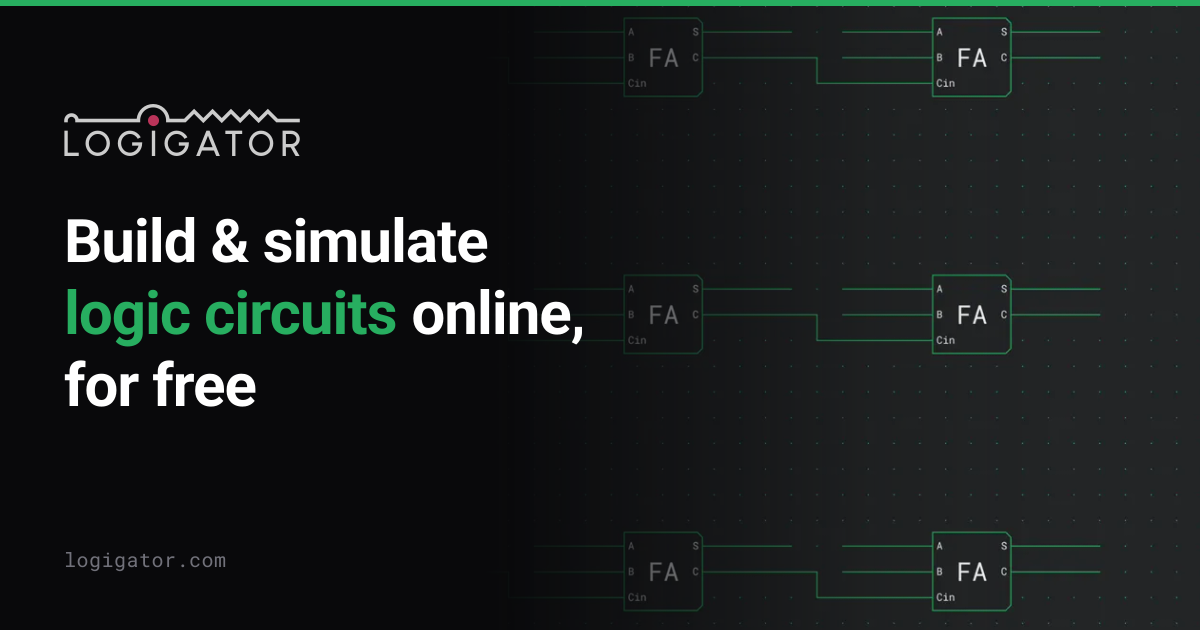
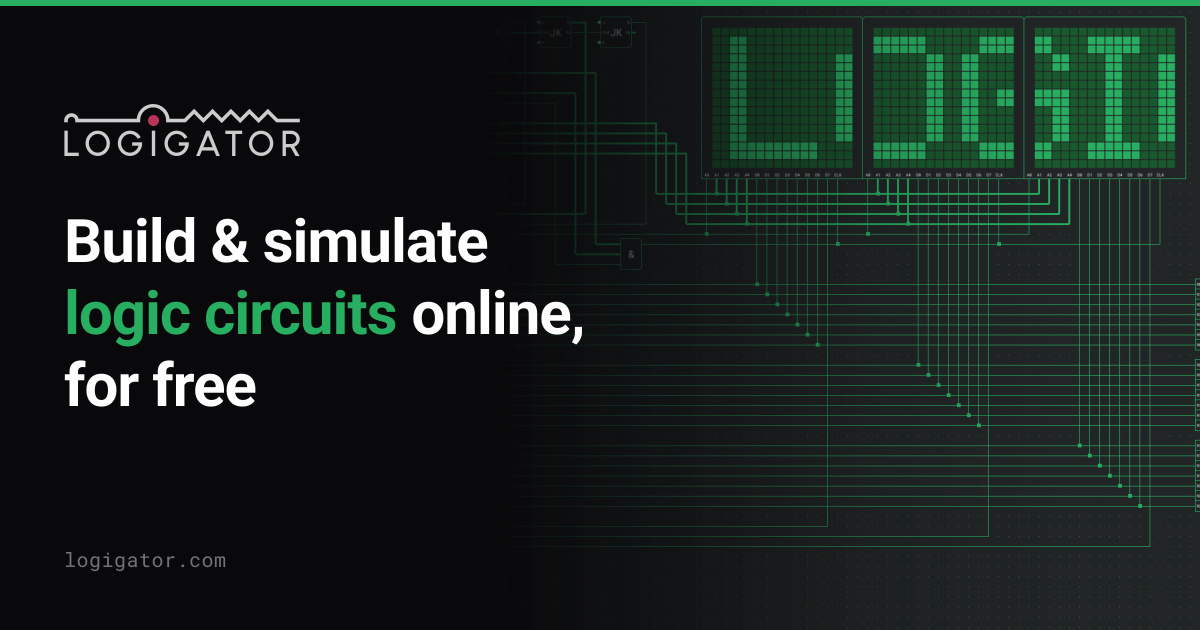
[web] run the marquee circuit behind the home page's headline
The hero serves the animated board and swaps in its first frame as a
still under `prefers-reduced-motion`. The crop is anchored to the top of
the render, where the matrices are, and the board is no longer scaled up
past the right edge. The social card is recomposed from the new dark
still.

Changed region(s): [[0.4625, 0.0, 1.0, 0.8143], [0.5242, 0.8444, 0.925, 0.9952], [0.5242, 0.9048, 0.6783, 0.9349]]

diff --git a/logigator-web/src/app/pages/home/home-page.ts b/logigator-web/src/app/pages/home/home-page.ts
@@ -20,6 +20,8 @@ import { homeVideo } from './home-video';
 import { VideoEmbed } from './video-embed';
 import heroLight from '../../../assets/hero-board-light.webp';
 import heroDark from '../../../assets/hero-board-dark.webp';
+import heroLightAnimated from '../../../assets/hero-board-animated-light.webp';
+import heroDarkAnimated from '../../../assets/hero-board-animated-dark.webp';
 
 /**
  * The landing page: a board hero, the features, the examples shelf, the
@@ -102,9 +104,15 @@ export class HomePage {
   protected readonly projects = this.content.projects;
   protected readonly components = this.content.components;
 
-  /** One image, not two hidden by CSS: a `display:none` image still downloads. */
+  /**
+   * One scheme's pair, not both hidden by CSS: a `display:none` image still
+   * downloads. The still is the animation's first frame, which is what a
+   * reader who asked for reduced motion gets instead.
+   */
   protected readonly heroBoard = computed(() =>
-    this.theming.isDark() ? heroDark : heroLight
+    this.theming.isDark()
+      ? { still: heroDark, animated: heroDarkAnimated }
+      : { still: heroLight, animated: heroLightAnimated }
   );
 
   /**

diff --git a/logigator-web/src/app/pages/home/home-page.html b/logigator-web/src/app/pages/home/home-page.html
@@ -1,12 +1,18 @@
 <ng-container *webTranslate="let t">
   <section class="relative overflow-hidden">
-    <img
-      class="absolute inset-0 h-full w-full scale-115 object-cover object-[68%_50%]"
-      alt=""
-      aria-hidden="true"
-      fetchpriority="high"
-      [src]="heroBoard()"
-    />
+    <picture>
+      <source
+        media="(prefers-reduced-motion: reduce)"
+        [attr.srcset]="heroBoard().still"
+      />
+      <img
+        class="absolute inset-0 h-full w-full object-cover object-[68%_0%]"
+        alt=""
+        aria-hidden="true"
+        fetchpriority="high"
+        [src]="heroBoard().animated"
+      />
+    </picture>
     <!-- Opaque under the copy, clear over the board: down the page while the
          board sits below the copy, across it once there is room beside it. -->
     <div
